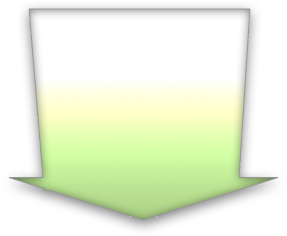
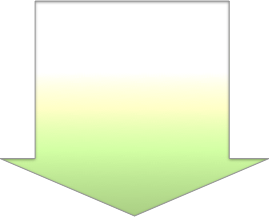
added styling to homepage

Changed region(s): [[0.0, 0.0, 1.0, 1.0]]

diff --git a/src/containers/homePage/register_login/LoginRegisterUser.css b/src/containers/homePage/register_login/LoginRegisterUser.css
@@ -1,23 +1,32 @@
+/* @import url('https://fonts.googleapis.com/css?family=Amatic+SC'); */
+
+
 .loginView {
+    float: right;
+    margin-right: 10%;
+    margin-top: 12%;
     display: inline-grid;
     background-image: url('../../../components/IMAGES/arrow.png');
-    width: 270px;
-    height:220px;
+    background-repeat: no-repeat;
+    width: 275px;
+    height:235px;
 }
 
 .loginView:hover{
     display: inline-grid;
-    background-image: url('../../../components/IMAGES/hoveredarrrow.png');
-    width: 270px;
-    height:220px;
+    background-image: url('../../../components/IMAGES/hoveredarrow.png');
+    background-repeat: no-repeat;
+    width: 275px;
+    height:235px;
 
 }
 
 .loginView:active{
     display: inline-grid;
     background-image: url('../../../components/IMAGES/pressedarrow.png');
-    width: 270px;
-    height:220px;
+    background-repeat: no-repeat;
+    width: 275px;
+    height:235px;
     animation-duration: 1s;
 
 }
@@ -25,15 +34,25 @@
 .loginView:visited{
     display: inline-grid;
     background-image: url('../../../components/IMAGES/pressedarrow.png');
-    width: 270px;
-    height:220px;
+    background-repeat: no-repeat;
+    width: 275px;
+    height:235px;
     animation-duration: 1s;
 
 }
 
 .loginFields{
     background-image: url('../../../components/IMAGES/arrow2.png');
-    width: 251px;
+    background-repeat: no-repeat;
+    width: 255px;
+    height: 120px;
+    margin-top: -20px;
+}
+
+.loginFields:hover{
+    background-image: url('../../../components/IMAGES/hoveredarrow2.png');
+    background-repeat: no-repeat;
+    width: 255px;
     height: 120px;
     margin-top: -20px;
 }
@@ -41,22 +60,32 @@
 #email{
     margin-top: 14%;
     margin-left: -15%;
+    width: 67%;
 }
 
 #password{
     margin-left: 2px;
+    width: 67%;
+}
+
+#fName{
+    width: 76%;
+}
+
+#lName{
+    width: 76%;
 }
 
 form{
     width: 80%;
     height: 80%;
-    margin-left: 10%;
+    margin-left: 9.5%;
     margin-top: 8%;
 }
 
 .signUp{
     background-color: transparent !important;
-    margin-top: 6%;
+    margin-top: 5%;
     margin-left: 3px;
     border: none;
     box-shadow: none;
@@ -77,3 +106,6 @@ form{
     line-height: 1em;
 }
 
+/* body {
+    font-family: 'Amatic SC', cursive;
+  } */

diff --git a/src/containers/homePage/index.js b/src/containers/homePage/index.js
@@ -2,6 +2,11 @@ import React, { Component } from 'react';
 import LoginRegisterUser from './register_login/LoginRegisterUser.js'
 import './Home.css';
 import NavBar from '../Dashboard/NavBar/NavBar'
+import logo from '../../components/IMAGES/Borrow-Logo.png'
+import clothing from '../../components/IMAGES/Clothing.png'
+import books from '../../components/IMAGES/books.png'
+import lawnmower from '../../components/IMAGES/lawnmower.png'
+import home from '../../components/IMAGES/home.png'
 
 
 
@@ -9,8 +14,23 @@ class Home extends Component {
   render() {
     return (
       <div className="Home">
-        <NavBar/>
-        <LoginRegisterUser/>
+        <div className="homeLogo">
+          <img className="mainLogo" alt="logo" src={logo} />
+        </div>
+        <div className="mainSection">
+          <div className="promo">
+            <h1>It's About Sharing Stuff</h1>
+            <div className="promoImages">
+              <img className="promoImage" alt="promo" src={clothing} />
+              <img className="promoImage" alt="promo" src={books} />
+              <img className="promoImage" alt="promo" src={lawnmower} />
+              <h1>And Getting It Back</h1>
+
+            </div>
+            <img className="promoImageHome" alt="promo" src={home} />
+          </div>
+          <LoginRegisterUser />
+        </div>
       </div>
     );
   }

diff --git a/src/containers/homePage/Home.css b/src/containers/homePage/Home.css
@@ -1,0 +1,67 @@
+@import url('https://fonts.googleapis.com/css?family=Amatic+SC');
+
+
+.homeLogo{
+    margin: auto;
+    height: 60px;
+    background-color: rgba(182, 250, 235, 0.7);
+    background-image: radial-gradient(closest-side, transparent 99%, rgba(0,0,0,.10) 99%),
+    radial-gradient(closest-side, transparent 99%, rgba(0,0,0,.1) 99%);
+    background-size:20px 20px;
+    background-position:0 0, 10px 10px;
+    height: 60px;
+}
+
+.mainSection{
+    background-color:rgba(171, 248, 231, .7);
+    height: 400px;
+}
+
+h1{
+    color: #9B9B9B;
+    font-size: 30px;
+}
+
+.mainSection>h1{
+    float: left;
+
+    margin: auto;
+}
+
+.mainLogo{
+    margin-top: 1%;
+    height: 40px;
+}
+
+body {
+    font-family: 'Amatic SC', cursive;
+  }
+
+.promo{
+    float: left;
+    margin-left: 5%;
+    display: grid;
+    height: 300px;
+    width: 400px;
+    text-align: center;
+    color: #9B9B9B;
+    font-size: 30px;
+    margin-top: 2%;
+
+}
+
+.promoImage{
+    height: 50px;
+    width: 50px;
+    margin: 15px;
+    display: inline-block;
+
+}
+
+.promoImageHome{
+    margin: auto;
+    margin-top: 20px;
+    height: 100px;
+    width: 100px;
+}
+/* rgba(171, 248, 231, 1) */

diff --git a/src/containers/Dashboard/NavBar/NavBar.js b/src/containers/Dashboard/NavBar/NavBar.js
@@ -9,14 +9,11 @@ class NavBar extends Component {
     const userName = (JSON.parse(sessionStorage.getItem("ActiveUser")))
     if (sessionStorage.length < 1) {
       console.log("user is NOT logged in")
-      return (
-        <nav className="navbar navbar-default">
-      <img className="logo vertical-align-welcome" alt="logo" src={logo} />
-      </nav>
-      );}
+  }
     else {
       return (
         <nav className="navbar navbar-default">
+      {/* <img className="logo vertical-align-÷welcome" alt="logo" src={logo} /> */}
           <div className="container-fluid">
             <div className="navbar-header">
               <button type="button" className="navbar-toggle collapsed" data-toggle="collapse" data-target="#bs-example-navbar-collapse-1" aria-expanded="false">

diff --git a/src/containers/app/App.css b/src/containers/app/App.css
@@ -1,3 +1,6 @@
+@import url('https://fonts.googleapis.com/css?family=Amatic+SC');
+
+
 .App {
   text-align: center;
 }
@@ -25,4 +28,8 @@
 @keyframes App-logo-spin {
   from { transform: rotate(0deg); }
   to { transform: rotate(360deg); }
+}
+
+body {
+  font-family: 'Amatic SC', cursive !important;
 }

diff --git a/src/containers/homePage/register_login/LoginRegisterUser.js b/src/containers/homePage/register_login/LoginRegisterUser.js
@@ -52,7 +52,6 @@ class LoginRegisterUser extends Component {
                 .then(response => response.json())
                 .then(user => {
                     sessionStorage.setItem("ActiveUser", JSON.stringify({ user }));
-
                 })
 
         }

diff --git a/src/containers/app/App.js b/src/containers/app/App.js
@@ -1,3 +1,4 @@
+import '../../index.css';
 import {
   BrowserRouter as Router,
   Route

diff --git a/src/index.css b/src/index.css
@@ -1,5 +1,6 @@
+
+
 body {
   margin: 0;
   padding: 0;
-  font-family: sans-serif;
 }
